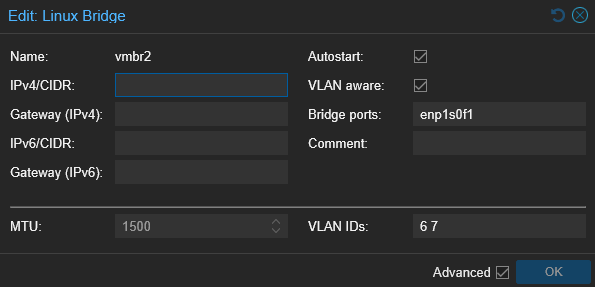
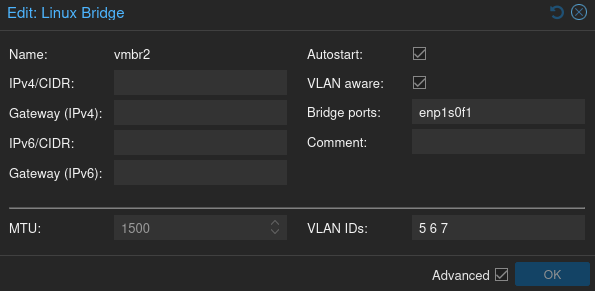
updated mentee lab project

diff --git a/public/posts/mentee-lab/index.html b/public/posts/mentee-lab/index.html
@@ -45,7 +45,7 @@
   <meta itemprop="description" content="An Overview of a Home Lab I Designed for My Mentee">
   <meta itemprop="datePublished" content="2025-07-12T21:50:48-06:00">
   <meta itemprop="dateModified" content="2025-07-12T21:50:48-06:00">
-  <meta itemprop="wordCount" content="777">
+  <meta itemprop="wordCount" content="912">
   <meta itemprop="keywords" content="Self-Hosting,Home-Lab,Security">
 
 <meta name="referrer" content="no-referrer" />
@@ -53,6 +53,9 @@
   
   <link href="/original.min.css" rel="stylesheet">
 
+  
+    
+    <link href="/syntax.min.css" rel="stylesheet">
   
 
   
@@ -105,18 +108,19 @@
 <p>/29 was used for the native VLAN <strong>(VLAN 1)</strong>—primarily due to it being the trusted subnet and making troubleshooting far easier; <em>I thought that it was far more appropriate for his needs.</em></p>
 <p><strong>VLAN 2</strong> is on a /30 subnet, which limits potential attack surface, and is solely for the Proxmox management interface.</p>
 <p><strong>VLAN 3</strong> needs little to no usable hosts because it is intended only for logging services.</p>
+<p><strong>VLAN 4</strong> is for internal use only, firewalled extensively with a restrictive /29 subnet.</p>
 <p><strong>VLAN 5</strong> is far more generous with a /27 subnet, which would be best for tightening and expandability.</p>
 <p><strong>VLAN 6</strong> is on a /30 subnet—allowing space only for a single instance of Nginx.</p>
 <p><strong>VLAN 7</strong> is also on a /30 subnet, intended for a singular Wireguard client.</p>
 <p>Segmenting services would&rsquo;ve been best, but again—<em>this setup needs to be accessible for independent troubleshooting.</em></p>
 <p>With that in mind, DHCP is enabled on VLAN 1 in case his network configuration interferes with deliverability; <strong>my mentee has three &ldquo;free&rdquo; untagged ports on VLAN 1 for troubleshooting purposes.</strong></p>
 <p>My mentee has a keen interest in penetration testing, so I integrated a SOC lab into his home lab for learning purposes.</p>
-<p>It is entirely virtual, isolated on to <strong>vmbr4</strong> with no physical network integration; <em>this VLAN is fully air gapped.</em></p>
+<p>It is largely entirely virtual (beholden to OPNsense), firewalled, and mapped to <strong>vmbr2</strong>; <em>this VLAN is fully air gapped.</em></p>
 <h3 id="network-hardware">Network Hardware</h3>
 <p>OPNsense was used as a central router/firewall with extensive ACLs to prevent unnecessary inter-VLAN traffic and exposure.</p>
 <p><em>I found it very beginner-friendly while exposing my mentee to real-world toolsets.</em></p>
 <p>A simple Netgear gigabit managed switch <strong>(GS308Ev4)</strong> was used to establish trunk ports between OPNsense and his Proxmox &ldquo;outputs.&rdquo;</p>
-<p>Three trunk ports were utilized for carrying traffic out of his Proxmox node: an upstream trunk for VLANs <strong>(ibg0)</strong> 1, 2, 3, 5, 6, and 7, and two independent ports <strong>(enp1sfp0 and enp1sfp1)</strong> for VLANs 3, 5 | 6, 7.</p>
+<p>Three trunk ports were utilized for carrying traffic out of his Proxmox node: an upstream trunk for VLANs <strong>(ibg0)</strong> 1, 2, 3, 5, 6, and 7, and two independent ports <strong>(enp1sfp0 and enp1sfp1)</strong> for VLANs 3, 4 | 5, 6, 7.</p>
 <p><em>A dummy <strong>PVID of 4094</strong> was used for untagged traffic on the three trunk ports—limiting potential traffic errors/security risks.</em></p>
 <p>Every other port—including the Proxmox management interface—was kept untagged.</p>
 <h3 id="virtualization">Virtualization</h3>
@@ -128,11 +132,9 @@
 <p><img src="/images/posts/mentee-lab/vmbr0.png" alt="Bridge 0 Config"></p>
 <p><strong>vmbr0</strong> is native to Proxmox (VLAN 2)—untagged and <em>purposefully <strong>not</strong> VLAN aware</em>.</p>
 <p><img src="/images/posts/mentee-lab/vmbr1.png" alt="Bridge 1 Config"></p>
-<p><strong>vmbr1</strong> is for logging and self-hosted services (VLANs 3 and 5).</p>
+<p><strong>vmbr1</strong> is for logging and SOC infrastructure (VLANs 3 and 4).</p>
 <p><img src="/images/posts/mentee-lab/vmbr2.png" alt="Bridge 2 Config"></p>
-<p><strong>vmbr2</strong> is used for proxying his self-hosted traffic—safely to his VPS (VLANs 6 and 7).</p>
-<p><img src="/images/posts/mentee-lab/vmbr4.png" alt="Bridge 4 Config"></p>
-<p><strong>vmbr4</strong> is for internal use only (VLAN 4).</p>
+<p><strong>vmbr2</strong> is intended for self-hosted services, and proxying traffic—safely to his VPS (VLANs 5, 6, and 7).</p>
 <h3 id="implementing-virtual-machines">Implementing Virtual Machines</h3>
 <p>For most home labs, I would implement a hardened frontend reverse proxy—though for his setup, it&rsquo;s largely unnecessary <em>(for now)</em>.</p>
 <p>The lab mostly consists of LXC containers and KVM virtual machines—as most services would be inoperable/inefficient if using Docker containers.</p>
@@ -142,13 +144,28 @@
 <h2 id="future-plans">Future Plans</h2>
 <p>Eventually, we will tunnel all relevant traffic through a WireGuard server hosted on the cloud so his services are masked.</p>
 <h5 id="likely-two-hardened-nginx-reverse-proxies-on-each-endwith-tls-13-termination-on-the-vps"><em>Likely two hardened Nginx reverse proxies on each end—with TLS 1.3 termination on the VPS</em></h5>
-<p>For now, the only service that is exposed is his PaperMC instance <em>(on a nonstandard port of 65555)</em>—though that will likely expand given his needs will increase.</p>
-<p>OpenMediaVault will likely remain for internal use only, although Nextcloud may replace that in the future (tunneled).</p>
+<p>For now, the only service that is exposed is his PaperMC instance—though that will likely expand given his needs will increase.</p>
+<p>OpenMediaVault will likely remain for internal use only, although Nextcloud may replace that in the future (tunneled); possibly just a basic NFS share.</p>
 <h2 id="documentation">Documentation</h2>
 <p><em>I want to stress that this was co-designed with my mentee, and he was actively involved in this process.</em></p>
 <h5 id="i-am-extremely-proud-of-his-performance-and-technical-aptitude-in-implementingmaintaining-this-home-lab"><em>I am extremely proud of his performance and technical aptitude in implementing/maintaining this home lab.</em></h5>
 <p>Extensive documentation, including interface configs, switch configs, ACLs, and Proxmox scripts/configs, may be found <a href="https://github.com/masontuckett/Smith-Home-Lab">here</a> or at <a href="https://smithbarlow.xyz">smithbarlow.xyz</a>.</p>
+<h2 id="update-8252025">UPDATE (8/25/2025)</h2>
+<p>While we were setting up the remainder of the lab, we opted to use a reverse SSH tunnel for proxying his services to the web.</p>
+<p>I am delighted to announce that WireGuard has finally been implemented (non-standard port)—utilizing Nginx&rsquo;s stream module to proxy traffic from the tunnel.</p>
+<p><img src="/images/posts/mentee-lab/wg.png" alt="WireGuard Server VPS"></p>
+<p><img src="/images/posts/mentee-lab/nginx.png" alt="Nginx Stream Config"></p>
+<p>I intentionally chose not to use a Minecraft focused reverse proxy, as we plan on implementing an additional IP address to essentially <em>lock</em> the service to <strong>mc.smithbarlow.xyz</strong>—<em>avoiding a bloated setup</em>.</p>
+<p>The PaperMC server operates with a <strong>whitelist</strong>, and server status <strong>OFF</strong>—for both game security, and to lessen <em>some</em> automated scanning (Shodan/MCStatus).</p>
+<p>Otherwise, we kept Minecraft on its default port so players could easily connect.</p>
+<h3 id="verification">Verification</h3>
 
+
+
+
+
+<div class="highlight"><pre tabindex="0" class="chroma"><code class="language-sh" data-lang="sh"><span class="line"><span class="ln">1</span><span class="cl"><span class="c1"># Quick Netcat Scan (May Be Periodically Down)</span>
+</span></span><span class="line"><span class="ln">2</span><span class="cl">nc -vz smithbarlow.xyz <span class="m">25565</span></span></span></code></pre></div>
 </content>
 
 <p class="byline">

diff --git a/public/services/index.html b/public/services/index.html
@@ -109,7 +109,7 @@
           <div class="service-body">
             <h3 class="service-title">Calibre</h3>
             <div class="service-text">Cross-platform, free and open-source eBook virtual library suite.</div>
-              <div class="service-links"><a href="https://library.tuckettlab.xyz">library.tuckettlab.xyz</a><a href="http://ekybwg2m7fgocpnr5ofjjo2lrfunptquipqihfaxodand4qfm6rc3gqd.onion">Tor Mirror</a>
+              <div class="service-links"><a href="https://library.tuckettlab.xyz">library.tuckettlab.xyz</a><a href="http://ekybwg2m7fgocpnr5ofjjo2lrfunptquipqihfaxodand4qfm6rc3gqd.onion">Tor Library</a>
               </div>
           </div>
         </div>

diff --git a/content/posts/mentee-lab.md b/content/posts/mentee-lab.md
@@ -31,6 +31,8 @@ I decided to keep subnet assignments tight and centered around a usable pool tha
 
 **VLAN 3** needs little to no usable hosts because it is intended only for logging services.
 
+**VLAN 4** is for internal use only, firewalled extensively with a restrictive /29 subnet.
+
 **VLAN 5** is far more generous with a /27 subnet, which would be best for tightening and expandability.
 
 **VLAN 6** is on a /30 subnet—allowing space only for a single instance of Nginx.
@@ -43,7 +45,7 @@ With that in mind, DHCP is enabled on VLAN 1 in case his network configuration i
 
 My mentee has a keen interest in penetration testing, so I integrated a SOC lab into his home lab for learning purposes.
 
-It is entirely virtual, isolated on to **vmbr4** with no physical network integration; *this VLAN is fully air gapped.*
+It is largely entirely virtual (beholden to OPNsense), firewalled, and mapped to **vmbr2**; *this VLAN is fully air gapped.*
 
 ### Network Hardware
 
@@ -53,7 +55,7 @@ OPNsense was used as a central router/firewall with extensive ACLs to prevent un
 
 A simple Netgear gigabit managed switch **(GS308Ev4)** was used to establish trunk ports between OPNsense and his Proxmox "outputs."
 
-Three trunk ports were utilized for carrying traffic out of his Proxmox node: an upstream trunk for VLANs **(ibg0)** 1, 2, 3, 5, 6, and 7, and two independent ports **(enp1sfp0 and enp1sfp1)** for VLANs 3, 5 | 6, 7.
+Three trunk ports were utilized for carrying traffic out of his Proxmox node: an upstream trunk for VLANs **(ibg0)** 1, 2, 3, 5, 6, and 7, and two independent ports **(enp1sfp0 and enp1sfp1)** for VLANs 3, 4 | 5, 6, 7.
 
 *A dummy __PVID of 4094__ was used for untagged traffic on the three trunk ports—limiting potential traffic errors/security risks.*
 
@@ -77,15 +79,11 @@ With that in mind, I opted for [Proxmox](https://www.proxmox.com/en/products/pro
 
 ![Bridge 1 Config](/images/posts/mentee-lab/vmbr1.png)
 
-**vmbr1** is for logging and self-hosted services (VLANs 3 and 5).
+**vmbr1** is for logging and SOC infrastructure (VLANs 3 and 4).
 
 ![Bridge 2 Config](/images/posts/mentee-lab/vmbr2.png)
 
-**vmbr2** is used for proxying his self-hosted traffic—safely to his VPS (VLANs 6 and 7). 
- 
-![Bridge 4 Config](/images/posts/mentee-lab/vmbr4.png)
-
-**vmbr4** is for internal use only (VLAN 4).
+**vmbr2** is intended for self-hosted services, and proxying traffic—safely to his VPS (VLANs 5, 6, and 7). 
 
 ### Implementing Virtual Machines
 
@@ -105,9 +103,9 @@ Eventually, we will tunnel all relevant traffic through a WireGuard server hoste
 
 ##### *Likely two hardened Nginx reverse proxies on each end—with TLS 1.3 termination on the VPS*
 
-For now, the only service that is exposed is his PaperMC instance *(on a nonstandard port of 65555)*—though that will likely expand given his needs will increase.
+For now, the only service that is exposed is his PaperMC instance—though that will likely expand given his needs will increase.
 
-OpenMediaVault will likely remain for internal use only, although Nextcloud may replace that in the future (tunneled).
+OpenMediaVault will likely remain for internal use only, although Nextcloud may replace that in the future (tunneled); possibly just a basic NFS share.
 
 ## Documentation
 
@@ -116,4 +114,27 @@ OpenMediaVault will likely remain for internal use only, although Nextcloud may 
 ##### *I am extremely proud of his performance and technical aptitude in implementing/maintaining this home lab.*
 
 Extensive documentation, including interface configs, switch configs, ACLs, and Proxmox scripts/configs, may be found [here](https://github.com/masontuckett/Smith-Home-Lab) or at [smithbarlow.xyz](https://smithbarlow.xyz).
+
+## UPDATE (8/25/2025)
+
+While we were setting up the remainder of the lab, we opted to use a reverse SSH tunnel for proxying his services to the web.
+
+I am delighted to announce that WireGuard has finally been implemented (non-standard port)—utilizing Nginx's stream module to proxy traffic from the tunnel.
+
+![WireGuard Server VPS](/images/posts/mentee-lab/wg.png)
+
+![Nginx Stream Config](/images/posts/mentee-lab/nginx.png)
+
+I intentionally chose not to use a Minecraft focused reverse proxy, as we plan on implementing an additional IP address to essentially _lock_ the service to **mc.smithbarlow.xyz**—_avoiding a bloated setup_.
+
+The PaperMC server operates with a **whitelist**, and server status **OFF**—for both game security, and to lessen _some_ automated scanning (Shodan/MCStatus).
+
+Otherwise, we kept Minecraft on its default port so players could easily connect.
+ 
+### Verification
+
+```sh
+# Quick Netcat Scan (May Be Periodically Down)
+nc -vz smithbarlow.xyz 25565
+```
 

diff --git a/content/services.md b/content/services.md
@@ -11,6 +11,6 @@ description = "Mason Tuckett's Services Page"
 
 {{< services >}}
 /images/searxng.svg|SearXNG|Free and open-source privacy-respecting metasearch engine.|search.tuckettlab.xyz::https://search.tuckettlab.xyz|Tor Mirror::http://ujozjm7regwuwszlcyx2g3jn6bgegrxk5x72q3om6sxb7kq7x5fgcwqd.onion
-/images/calibre.png|Calibre|Cross-platform, free and open-source eBook virtual library suite.|library.tuckettlab.xyz::https://library.tuckettlab.xyz|Tor Mirror::http://ekybwg2m7fgocpnr5ofjjo2lrfunptquipqihfaxodand4qfm6rc3gqd.onion
+/images/calibre.png|Calibre|Cross-platform, free and open-source eBook virtual library suite.|library.tuckettlab.xyz::https://library.tuckettlab.xyz|Tor Library::http://ekybwg2m7fgocpnr5ofjjo2lrfunptquipqihfaxodand4qfm6rc3gqd.onion
 /images/papermc.webp|PaperMC|Lightweight Bukkit/Spigot-compatible vanilla Minecraft server.|mc.tuckettlab.xyz::mailto:mason@tuckett.xyz
 {{< /services >}}
